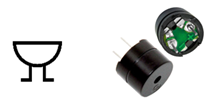
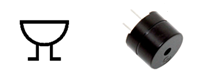
arduino aula 9

diff --git a/tutorial/arduino-basico.html b/tutorial/arduino-basico.html
@@ -992,17 +992,40 @@ int sortear() {
             </section>
             <hr>
             <section id="topico9">
-                <h2>Missão 9 - Pianinho Intergaláctico</h2>
+                <h2>Missão 9 - Marcha Imperial</h2>
                 <h3 id="sub">🛰 Plano da missão</h3>
                 <p>Nesta missão, o Arduino vai aprender a usar a Força... do som. Com a ajuda de um buzzer passivo, você vai descobrir como reproduzir notas musicais usando as funções especiais tone() e noTone().</p>
-                <p>Com isso, será possível montar um teclado intergaláctico e criar trilhas sonoras dignas de um verdadeiro Cavaleiro Jedi.</p>                
+                <p>Com isso, será possível montar um teclado musical e criar trilhas sonoras dignas de um verdadeiro Cavaleiro Jedi.</p>                
                 <h3 id="sub">🔋 Componentes da missão</h3>
-                <h3>Buzzer Passivo</h3>
+                <h3>Buzzer</h3>
                 <img src="../img/buzzer.png" alt="buzzer">
                 <p>O buzzer passivo funciona como um pequeno alto-falante. Para tocar alguma coisa, o Arduino precisa mandar sinais com diferentes frequências. Assim conseguimos gerar sons variados.</p>
-                <h3 id="sub">🧠 Comando Central</h3>                
+                <h3 id="sub">🧠 Comando Central</h3>
+                <h3>Como o Arduino reproduz notas musicais?</h3>
+                <p>Cada nota musical tem uma frequência associada. Por exemplo:</p>                
+                <img src="../img/notasMusicais.png" alt="Frequência notas musicais">
+                <p>A função tone(pino, frequência) faz o Arduino ligar e desligar rapidamente um pino digital para gerar uma frequência (em Hertz). Essa frequência faz o buzzer vibrar e produzir um som, ou seja, uma nota musical.</p>
+                <p>A função noTone(pino) serve para parar o som que o Arduino está tocando naquele pino.</p>
+                <br>
+                <pre>
+tone(6, 440); //toca a nota LÁ (440 Hz) no pino 6
+delay(500);   //duração da nota
+noTone(6);    //interromper o som no pino 6
+                </pre>
                 <h3 id="sub">🔧 Oficina da Rebelião</h3>                
-                <h3>🟦🟦🟦⬜⬜ Em produção...</h3>
+                <p>Objetivo: Desnvolver no Arduino um pininho musical luminoso.</p>
+                <br>
+                <p>Lista de material:</p>
+                <br>
+                <img src="../img/listaPianinho.png" alt="lista de material pianinho">
+                <br><br>
+                <p>Diagrama elétrico:</p>
+                <br>
+                <img src="../img/pianinho.png" alt="diagrama pianinho">
+                <br><br>
+                <p>Código fonte:</p>
+                <br>
+                <img src="../img/codigoPianinho.png" alt="codigo pianinho">
             </section>
             <hr>
             <section id="topico10">
